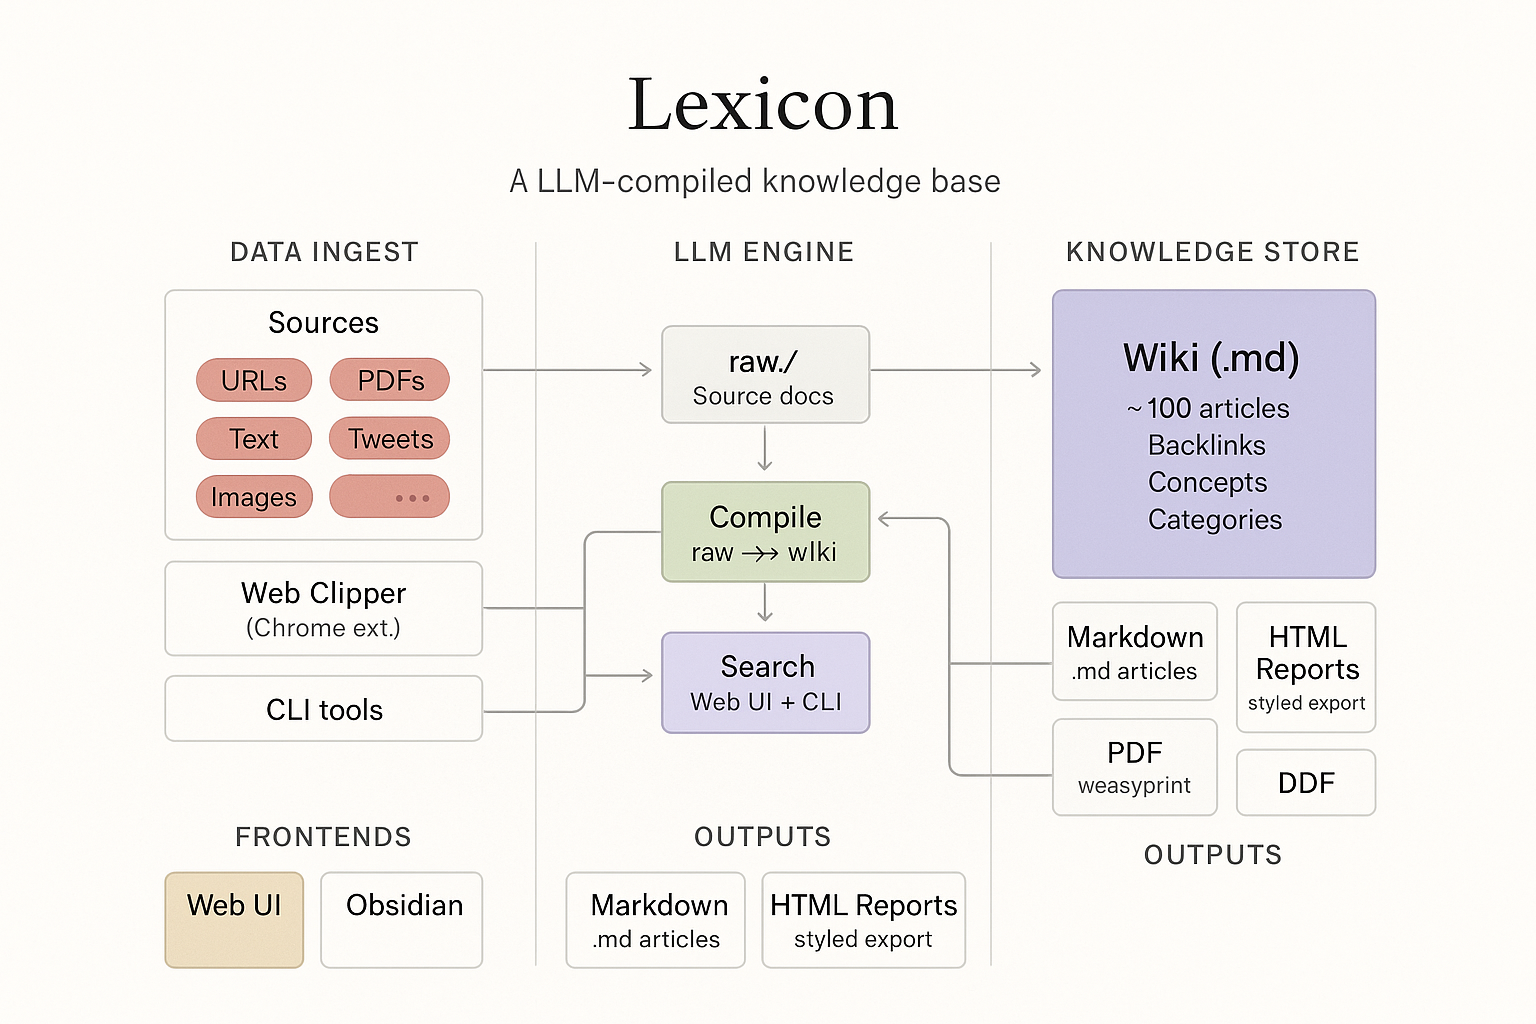
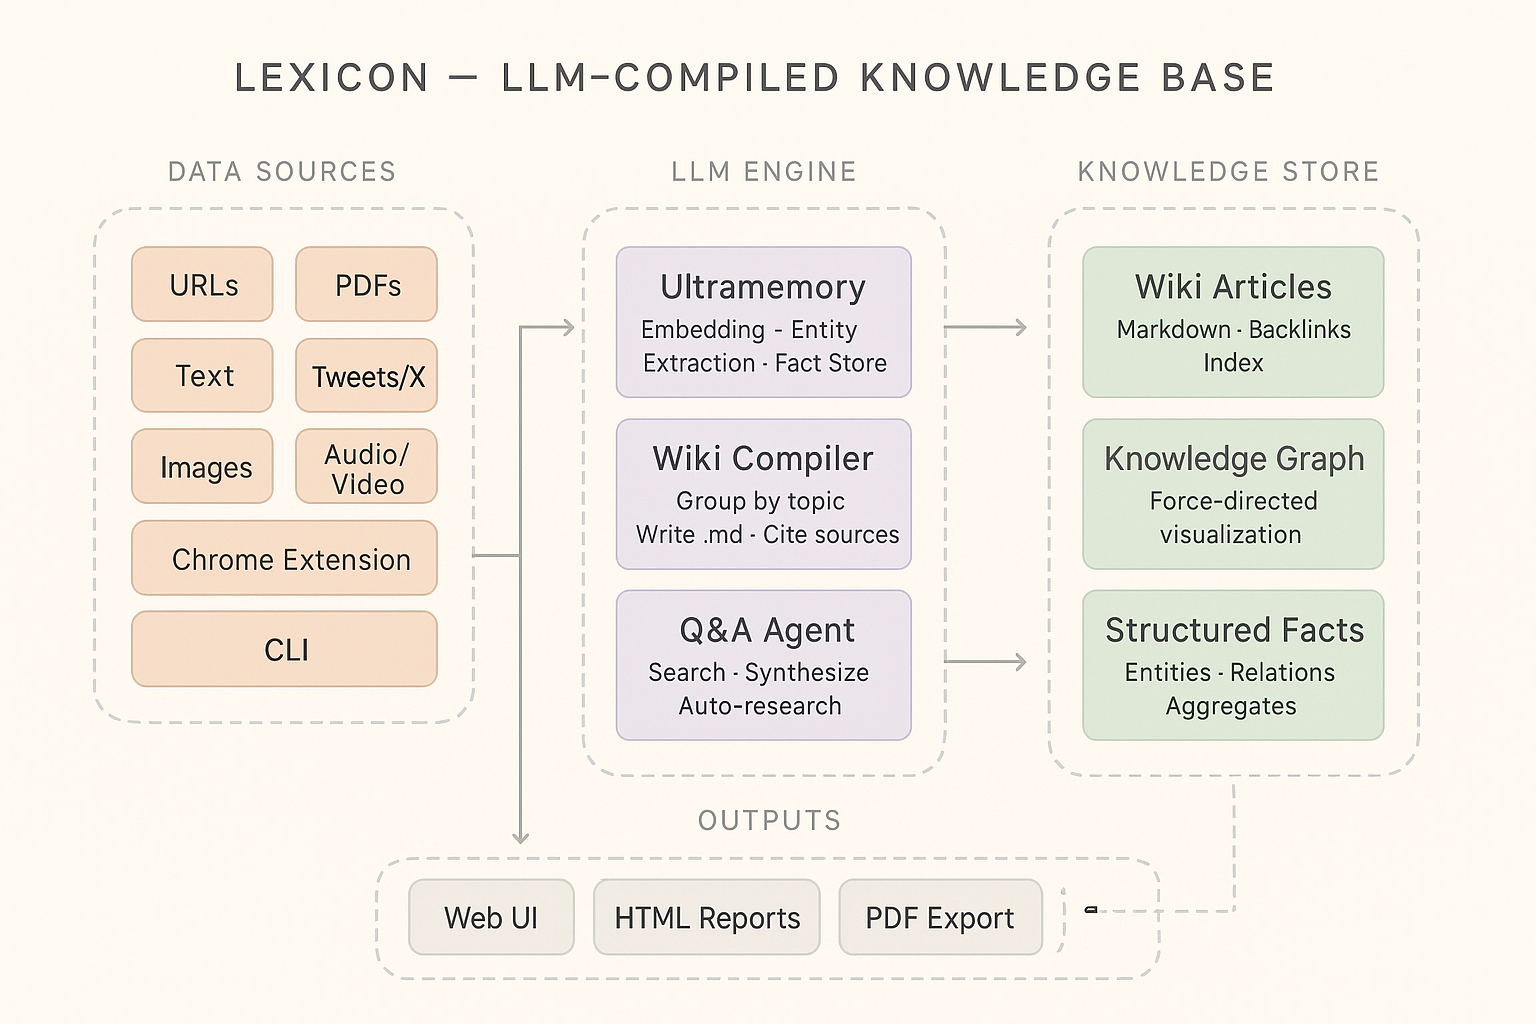
docs: upgraded architecture diagram to pastel infographic style, removed ASCII diagram

diff --git a/README.md b/README.md
@@ -112,24 +112,6 @@ uk serve    # → http://localhost:8899
 
 ## How It Works
 
-```
-  Sources                    LLM Engine                 Knowledge Store
-  ─────────                  ──────────                 ───────────────
-
-  URLs ─────┐
-  PDFs ─────┤                ┌──────────────┐
-  Text ─────┼──▶ Ingest ──▶ │   Compile    │──▶  Wiki (.md)
-  Tweets ───┤    (embed,     │  raw → wiki  │     ├── articles/*.md
-  Images ───┤    extract)    └──────┬───────┘     ├── Index.md
-  Audio ────┘                       │             ├── [[backlinks]]
-                              ┌─────┴─────┐      └── sources
-  Web Clipper ──▶              │           │
-  CLI tools ───▶              Q&A    Linting      Outputs
-  Exa search ──▶              │           │       ├── HTML reports
-                              search   quality    ├── PDF
-                              + cite   checks     └── snapshots
-```
-
 ### Pipeline
 
 1. **Ingest** — Content is chunked, embedded (sentence-transformers or Gemini), and stored in SQLite with extracted entities and facts
